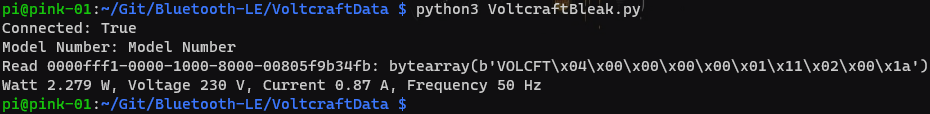
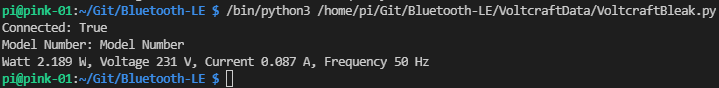
Fix in script and media

Changed region(s): [[0.0, 0.0, 1.0, 0.8182], [0.0, 0.8182, 0.459, 1.0], [0.1836, 0.0, 0.2142, 0.0227]]

diff --git a/VoltcraftData/VoltcraftBleak.py b/VoltcraftData/VoltcraftBleak.py
@@ -8,7 +8,6 @@ BASE_UUID = "0000{}-0000-1000-8000-00805f9b34fb"
 
 MODEL_NBR_UUID = BASE_UUID.format("2a24") #reads model > https://github.com/JorenSix/TgForceSensor
 WRITE_WITHOUT_NOTIFY = BASE_UUID.format("fff3")
-READ1 = BASE_UUID.format("fff1")
 CHARACTERISTIC_UUID = BASE_UUID.format("fff4")
 
 def ReturnVoltCraftObject( str ):
@@ -16,7 +15,8 @@ def ReturnVoltCraftObject( str ):
     if len(str) == 38:
         Wattage = int(str[12:-22], 16)/1000
         Voltage = int(str[16:-20], 16)
-        Current = int(str[18:-16], 16)/100
+        Current = int(str[18:-16], 16)/1000
+        #Current = str[18:-16]
         Frequency = int(str[22:-14], 16)
         return Wattage, Voltage, Current, Frequency
     else:
@@ -38,11 +38,10 @@ async def main(address):
         #Next part just prints all characteristics (For Science)
         #for service in client.services:
             #for char in service.characteristics:
-                #print(f"Type {char.properties} - UUID {char.uuid} - Handle { char.handle}  ")
+                #print(f"Type {char.properties} - UUID {char.uuid} - Handle {char.handle} ")
 
-        await client.write_gatt_char(WRITE_WITHOUT_NOTIFY, bytes.fromhex('0f0c170000000000000000000018ffff')) #TODO - The Numbers Mason! What do they Mean?
+        #await client.write_gatt_char(WRITE_WITHOUT_NOTIFY, bytes.fromhex('0f0c170000000000000000000018ffff')) #TODO - The Numbers Mason! What do they Mean?
         await asyncio.sleep(1)
-        print(f"Read {READ1}: {await client.read_gatt_char(READ1)}") #TODO
         await client.write_gatt_char(WRITE_WITHOUT_NOTIFY, bytes.fromhex('0f0c0100152716120807e500005affff')) #Instruction Blue Blink light turns solid Green
         await asyncio.sleep(0.5)
 
